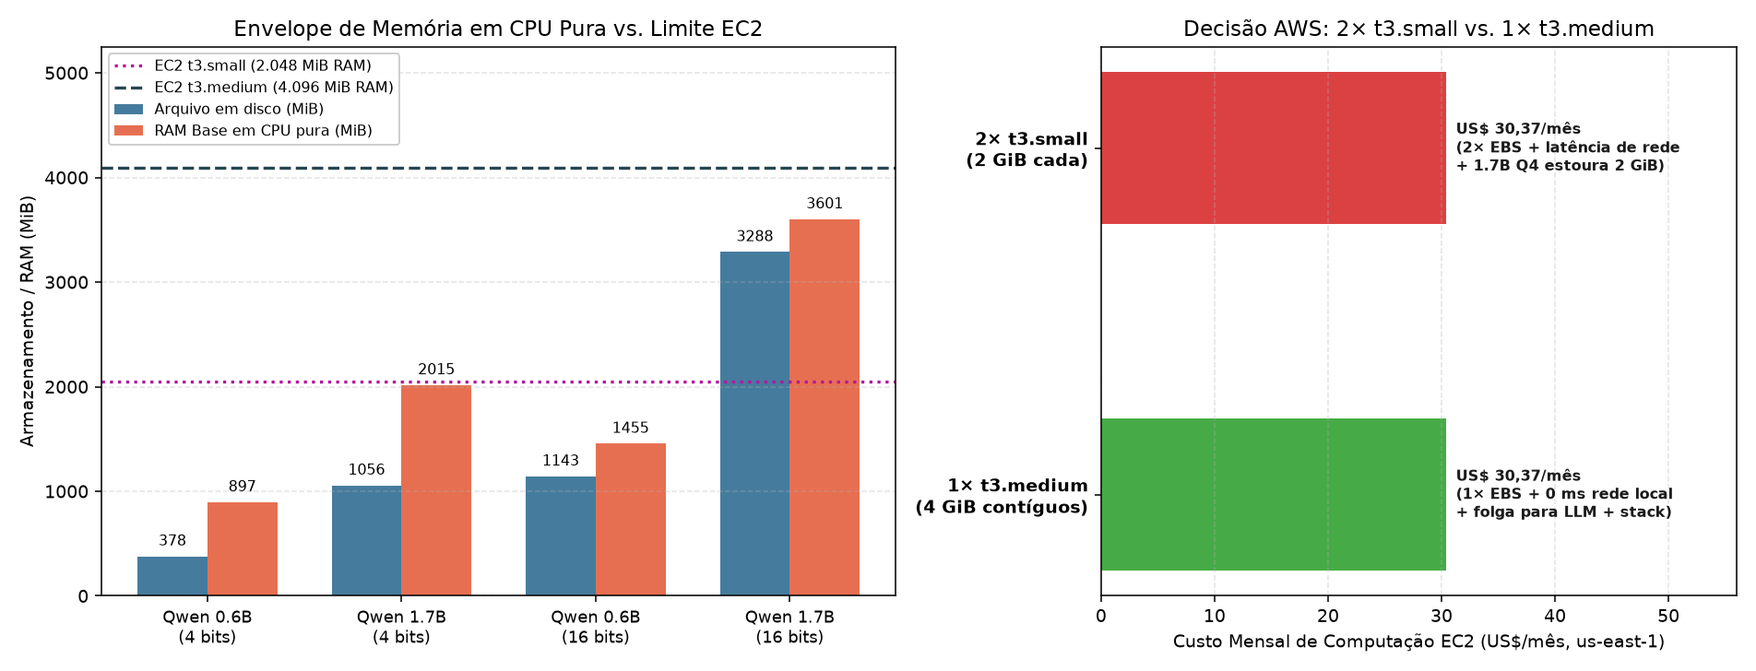
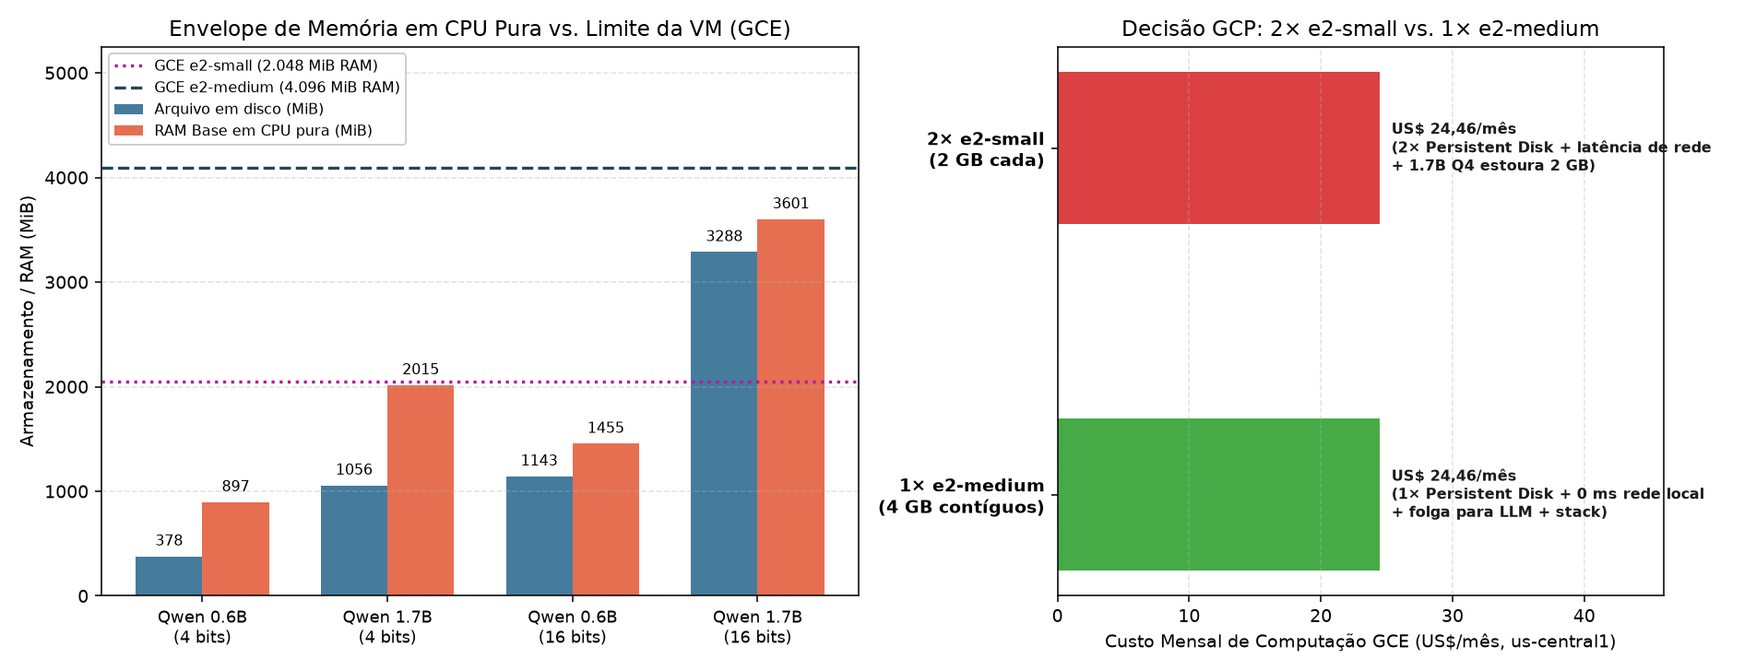
Atualiza README, ODS e métricas auditadas de GenAI, Visão e Cloud

diff --git a/llm-assistant/scripts/build_size_quant_comparison.py b/llm-assistant/scripts/build_size_quant_comparison.py
@@ -98,8 +98,8 @@ def _row_from_gguf_json(
     }
 
 
-def _plot_ec2_sizing_and_cost(mem_matrix: dict[str, Any], out_path: Path) -> None:
-    """Compara consumo de disco/RAM em CPU contra tetos EC2 e topologia 2x small vs 1x medium."""
+def _plot_vm_sizing_and_cost(mem_matrix: dict[str, Any], out_path: Path) -> None:
+    """Compara consumo de disco/RAM em CPU contra tetos GCE e topologia 2x e2-small vs 1x e2-medium."""
     plt.rcParams.update({"figure.dpi": 140})
     fig, (ax1, ax2) = plt.subplots(1, 2, figsize=(13.6, 5.2), gridspec_kw={"width_ratios": [1.25, 1.0]})
 
@@ -117,13 +117,13 @@ def _plot_ec2_sizing_and_cost(mem_matrix: dict[str, Any], out_path: Path) -> Non
     w = 0.36
     bd = ax1.bar(xm - w / 2, disk_vals, w, label="Arquivo em disco (MiB)", color="#457b9d")
     br = ax1.bar(xm + w / 2, rss_vals, w, label="RAM Base em CPU pura (MiB)", color="#e76f51")
-    ax1.axhline(2048, color="#b5179e", linestyle=":", linewidth=1.7, label="EC2 t3.small (2.048 MiB RAM)")
-    ax1.axhline(4096, color="#264653", linestyle="--", linewidth=1.7, label="EC2 t3.medium (4.096 MiB RAM)")
+    ax1.axhline(2048, color="#b5179e", linestyle=":", linewidth=1.7, label="GCE e2-small (2.048 MiB RAM)")
+    ax1.axhline(4096, color="#264653", linestyle="--", linewidth=1.7, label="GCE e2-medium (4.096 MiB RAM)")
     ax1.set_xticks(xm)
     ax1.set_xticklabels(labels, fontsize=9.2)
     ax1.set_ylim(0, 5250)
     ax1.set_ylabel("Armazenamento / RAM (MiB)")
-    ax1.set_title("Envelope de Memória em CPU Pura vs. Limite EC2")
+    ax1.set_title("Envelope de Memória em CPU Pura vs. Limite da VM (GCE)")
     ax1.grid(axis="y", linestyle="--", alpha=0.35)
     ax1.legend(loc="upper left", fontsize=8.0, framealpha=0.95)
 
@@ -132,23 +132,23 @@ def _plot_ec2_sizing_and_cost(mem_matrix: dict[str, Any], out_path: Path) -> Non
             h = bar.get_height()
             ax1.text(bar.get_x() + bar.get_width() / 2, h + 70, f"{h:.0f}", ha="center", va="bottom", fontsize=8.2)
 
-    topos = ["2× t3.small\n(2 GiB cada)", "1× t3.medium\n(4 GiB contíguos)"]
+    topos = ["2× e2-small\n(2 GB cada)", "1× e2-medium\n(4 GB contíguos)"]
     yt = np.arange(len(topos))
-    # Tarifa us-east-1 Linux On-Demand: 0.0208/h * 730 = 15.18/mês por small -> 30.37/mês; medium = 0.0416/h = 30.37/mês
-    compute_usd = [30.37, 30.37]
+    # Tarifa us-central1 on-demand: e2-small 0,016751 US$/h × 730 = 12,23/mês -> 2× = 24,46; e2-medium 0,033503 US$/h × 730 = 24,46/mês
+    compute_usd = [24.46, 24.46]
     colors_topo = ["#d62728", "#2ca02c"]
     ax2.barh(yt, compute_usd, height=0.44, color=colors_topo, alpha=0.88)
     ax2.set_yticks(yt)
     ax2.set_yticklabels(topos, fontsize=9.8, fontweight="bold")
     ax2.invert_yaxis()
-    ax2.set_xlim(0, 56)
-    ax2.set_xlabel("Custo Mensal de Computação EC2 (US$/mês, us-east-1)")
-    ax2.set_title("Decisão AWS: 2× t3.small vs. 1× t3.medium")
+    ax2.set_xlim(0, 46)
+    ax2.set_xlabel("Custo Mensal de Computação GCE (US$/mês, us-central1)")
+    ax2.set_title("Decisão GCP: 2× e2-small vs. 1× e2-medium")
     ax2.grid(axis="x", linestyle="--", alpha=0.35)
 
     notes = [
-        "US$ 30,37/mês\n(2× EBS + latência de rede\n+ 1.7B Q4 estoura 2 GiB)",
-        "US$ 30,37/mês\n(1× EBS + 0 ms rede local\n+ folga para LLM + stack)",
+        "US$ 24,46/mês\n(2× Persistent Disk + latência de rede\n+ 1.7B Q4 estoura 2 GB)",
+        "US$ 24,46/mês\n(1× Persistent Disk + 0 ms rede local\n+ folga para LLM + stack)",
     ]
     for idx, (cost, note) in enumerate(zip(compute_usd, notes)):
         ax2.text(cost + 0.9, idx, note, va="center", ha="left", fontsize=8.4, fontweight="bold", color="#1b1b1b")
@@ -331,7 +331,7 @@ def main() -> None:
     df.to_csv(out_csv, index=False, encoding="utf-8")
 
     out_png = DIR_ASSETS / "comparativo_17b_vs_06b_gguf.png"
-    _plot_ec2_sizing_and_cost(mem_matrix, out_png)
+    _plot_vm_sizing_and_cost(mem_matrix, out_png)
 
     out_mat = DIR_ASSETS / "matriz_2x2_memoria_acuracia.png"
     _plot_matrices(df, out_mat)

diff --git a/llm-assistant/scripts/build_notebooks.py b/llm-assistant/scripts/build_notebooks.py
@@ -83,7 +83,7 @@ def _nb_lora() -> nbf.NotebookNode:
             "display(pd.Series([r['familia'] for r in train_rows]).value_counts().rename('qtd_treino'))"
         ),
         nbf.v4.new_code_cell(
-            "REEXECUTAR_TREINO = False  # True para retreinar o adaptador LoRA r=16 na GPU (~2 min)\n\n"
+            "REEXECUTAR_TREINO = False  # True para retreinar o adaptador LoRA r=16 na GPU (~46 min na RTX 3060 Ti)\n\n"
             "if REEXECUTAR_TREINO or not (DIR_ADAPTERS / 'lora_arborgrid_r16' / 'adapter_config.json').exists():\n"
             "    from scripts.train_lora import main as run_train\n"
             "    run_train()\n\n"
@@ -177,7 +177,7 @@ def _nb_quantizacao() -> nbf.NotebookNode:
             "# 04 — Exploração de Modelos (`SmolLM2-360M` vs. `Qwen 0.6B` vs. `1.7B`) e Quantização `Q4_K_M`\n\n"
             "Documenta a seleção de família/porte de modelo e o estudo de quantização `F16` → `Q4_K_M` via `llama.cpp` "
             "em **GPU** (`-ngl 99`) e **CPU pura limitada a 2 threads** (`-dev none -ngl 0 -t 2`) "
-            "para fundamentar o deploy econômico na AWS (`t3.medium`, 4 GiB RAM)."
+            "para fundamentar o deploy econômico no Google Cloud Compute Engine (`e2-medium`, 4 GB RAM)."
         ),
         nbf.v4.new_code_cell(
             "import sys\n"
@@ -207,10 +207,10 @@ def _nb_quantizacao() -> nbf.NotebookNode:
             "display(Image(filename=str(DIR_ASSETS / 'matriz_2x2_latencia_gpu_cpu.png')))"
         ),
         nbf.v4.new_markdown_cell(
-            "### Decisão Final para Produção na Nuvem (`AWS EC2 t3.medium`)\n"
+            "### Decisão Final para Produção na Nuvem (`Google Cloud Compute Engine e2-medium`)\n"
             "- **`SmolLM2-360M` descartado:** `20,0%` em 16 bits (`10,0%` em Q4 CPU) e latência pior ou equivalente ao `Qwen 0.6B`.\n"
-            "- **`Qwen 1.7B Q4_K_M` aprovado para produção:** mantém **`93,3%` (`28/30`)** sem perda frente ao `F16` (`2.015,0 MiB` RAM base, `1.056,1 MiB` em disco, `9,30 s` em 2 threads CPU local / `~18,6 s` estimados em vCPU).\n"
-            "- Como o modelo de Visão Computacional (`segformer_v3_int8_dyn_matmul.onnx`) roda no navegador via `onnxruntime-web`, o **`Qwen 1.7B Q4_K_M`** cabe com folga na **`t3.medium` (4 GiB RAM)**."
+            "- **`Qwen 1.7B Q4_K_M` aprovado para produção:** mantém **`93,3%` (`28/30`)** sem diferença mensurável em `n = 30` frente ao `F16` (`2.015,0 MiB` RAM base, `1.056,1 MiB` em disco, `9,30 s` em 2 threads CPU local / `~18,6 s` estimados em vCPU).\n"
+            "- Como o modelo de Visão Computacional (`segformer_v3_int8_dyn_matmul.onnx`) roda no navegador via `onnxruntime-web`, o **`Qwen 1.7B Q4_K_M`** cabe com folga na **`e2-medium` (4 GB RAM)**."
         ),
     ]
     nb = nbf.v4.new_notebook()

diff --git a/infra/ARQUITETURA_CLOUD_DEVSECOPS.md b/infra/ARQUITETURA_CLOUD_DEVSECOPS.md
@@ -8,22 +8,28 @@ Documento de referência para a disciplina **Secure DevOps Tools & Cloud Computi
 
 ```mermaid
 flowchart LR
-    User[Cidadão / Avaliador] -->|HTTP 80| FW[GCP VPC Firewall Rules]
-    Airflow[Airflow 3 / Big Data] -->|Bearer Token HTTPS/HTTP| FW
-    Admin[Engenheiro DevOps] -->|SSH 22 CIDR Restrito /32| FW
+    GH["GitHub push"] --> GHA["GitHub Actions (Gitleaks, pytest, Semgrep)"]
+    GHA --> TRV["Docker build + Trivy (imagem e IaC)"]
+    TRV --> WIF["Workload Identity Federation (OIDC, sem chave JSON)"]
+    WIF --> IAP["Túnel IAP (35.235.240.0/20 → SSH 22)"]
+    IAP -->|"rsync + docker compose + health check"| GCE
 
-    subgraph GCE[Google Cloud Compute Engine e2-medium — Ubuntu 24.04 — Terraform IaC]
-        FW --> Nginx[Nginx Reverse Proxy :80]
-        Nginx --> App[FastAPI WebApp non-root :8000]
-        App -->|Chat RAG :8080| Llama[llama.cpp Qwen3-1.7B Q4_K_M]
-        Media[(Volume RO /opt/arborgrid/media)] --> App
-        LLMModel[(Volume RO /opt/arborgrid/llm_models)] --> Llama
-        State[(Volume RW /app/state Gold JSON)] <--> App
-        Prom[Prometheus 127.0.0.1:9090] -->|Scrape /metrics| App
-        Graf[Grafana 127.0.0.1:3000] -->|Query PromQL| Prom
+    User["Cidadão / Avaliador"] -->|"HTTP 80"| FW["GCP VPC Firewall Rules"]
+    Airflow["Airflow 3 / Big Data"] -->|"Bearer Token (HTTP)"| FW
+    Admin["Engenheiro DevOps"] -->|"SSH 22 CIDR Restrito /32"| FW
+
+    subgraph GCE["Google Cloud Compute Engine e2-medium — Ubuntu 24.04 — Terraform IaC"]
+        FW --> Nginx["Nginx Reverse Proxy :80"]
+        Nginx --> App["FastAPI WebApp non-root :8000"]
+        App -->|"Chat RAG :8080"| Llama["llama.cpp Qwen3-1.7B Q4_K_M"]
+        Media[("Volume RO /opt/arborgrid/media")] --> App
+        LLMModel[("Volume RO /opt/arborgrid/llm_models")] --> Llama
+        State[("Volume RW /app/state Gold JSON")] <--> App
+        Prom["Prometheus 127.0.0.1:9090"] -->|"Scrape /metrics"| App
+        Graf["Grafana 127.0.0.1:3000"] -->|"Query PromQL"| Prom
     end
 
-    Admin -.->|SSH Tunnel -L 3000/9090| Graf
+    Admin -.->|"SSH Tunnel -L 3000/9090"| Graf
 ```
 
 ---
@@ -36,7 +42,8 @@ flowchart LR
 | Provisionamento declarativo (`Terraform`), regras de Firewall VPC e bloqueio estrito de `0.0.0.0/0` na porta 22 | | X |
 | Hardening da VM (*Shielded VM*: Secure Boot, vTPM, Integrity Monitoring e `block-project-ssh-keys = true`) | | X |
 | Container slim, usuário não-root (`UID 10001`), filesystem `read_only`, drop de capabilities | | X |
-| Gestão de tokens (`ARBORGRID_API_TOKEN`) via GitHub Secrets / `.env` fora do Git | | X |
+| Credenciais de deploy: Workload Identity Federation (sem chave de Service Account), chave SSH dedicada do CI e *host key* fixada em GitHub Secrets; `ARBORGRID_API_TOKEN` só no `.env` da VM (fora do Git) | | X |
+| Disponibilidade do Identity-Aware Proxy, do STS/IAM Credentials e rotação das chaves de assinatura OIDC↔GCP | X | |
 | Varredura contínua Gitleaks, Semgrep e Trivy antes do deploy automático | | X |
 | Conformidade LGPD, anonimização e restrição de mídias Street View fora do repositório | | X |
 
@@ -44,10 +51,15 @@ flowchart LR
 
 ## 3. Localização dos Dados e Conformidade LGPD
 
-- **Dados públicos em código/container (`manifest.json`):** coordenadas geográficas oficiais de árvores viárias públicas provenientes do portal GeoSampa (Decreto Municipal SP nº 57.576/2017), datas históricas de vistoria municipal SISGAU e contagens agregadas de pixels (`copa_px`, `wire_px`, `pole_px`). Não contém nome, CPF, telefone, e-mail ou qualquer dado pessoal identificável (PII).
+O conjunto de dados hospedado (`manifest.json`) não contém dados pessoais; contudo, entradas digitadas pelo usuário no assistente e logs de acesso HTTP podem conter dados pessoais, tratados pelos controles abaixo:
+
+- **Dados públicos em código/container (`manifest.json`):** coordenadas geográficas oficiais de árvores viárias públicas provenientes do portal GeoSampa (Decreto Municipal SP nº 57.576/2017), datas históricas de vistoria municipal SISGAU e contagens agregadas não identificáveis de pixels (`copa_px`, `wire_px`, `pole_px`).
 - **Mídias visuais (`images/` e `v3_overlays/`):** armazenadas fora do histórico Git (protegidas pelo `.gitignore` e `.dockerignore`), montadas como volume somente leitura (`/app/media:ro`) na VM apenas quando necessário, preservando o borramento nativo de rostos/placas e respeitando os Termos de Uso do Google Street View.
 - **Identificadores anonimizados:** `pano_id` e eventuais atores operacionais enviados pela camada Gold recebem hash SHA-256 truncado (`pano_id_hash`, `audit_actor_hash`).
-- **Região de hospedagem:** Google Cloud `us-central1` (Iowa), com discos persistentes `pd-balanced` criptografados automaticamente em repouso por padrão no GCP (`Google-managed encryption keys`).
+- **Perguntas enviadas ao assistente (`POST /api/v1/assistant/ask`):** perguntas digitadas podem conter dados pessoais; a API mascara CPF, CNPJ, placa, telefone e e-mail antes de enviar o texto ao LLM e antes de devolvê-lo na resposta (`webapp/app/privacy.py`). As perguntas não são persistidas em banco ou disco e o Uvicorn não registra corpos de requisição nos logs.
+- **Upload de fotos na aba "Análise de Imagem":** as imagens enviadas pelo usuário são processadas exclusivamente no navegador (`ONNX Runtime Web`) e nunca saem do dispositivo.
+- **Logs de acesso do Nginx:** registram endereços IP dos clientes (dados pessoais sob a LGPD). O driver de log padrão do Docker mantém os registros até a recriação do container; recomenda-se configurar rotação e retenção limitada (`max-size` / `max-file`) em produção.
+- **Região de hospedagem e transferência internacional:** Google Cloud `us-central1` (Iowa), com discos persistentes `pd-balanced` criptografados automaticamente em repouso por padrão no GCP (`Google-managed encryption keys`). A hospedagem fora do Brasil configura transferência internacional de dados (LGPD, art. 33); a alternativa nacional é `southamerica-east1` (São Paulo), com custo superior. Como os dados persistidos na VM se restringem a dados públicos abertos e contagens não identificáveis de pixels, a escolha de `us-central1` justifica-se para o MVP.
 
 ---
 
@@ -59,17 +71,60 @@ Valores referenciais *on-demand* em USD (abatidos diretamente do saldo/créditos
 | :--- | :--- | ---: | ---: |
 | Computação GCE | `1x e2-medium` (2 vCPU compartilhadas, 4 GB RAM para `Qwen3-1.7B Q4_K_M`) | ~\$24,27 | \$0,0332/h |
 | Armazenamento | `30 GB pd-balanced` (SSD balanceado criptografado) | ~\$3,00 | \$0,0041/h |
-| IPv4 Público & Tráfego | `1x IPv4` efêmero em uso (`$0,005/h`) + tráfego de saída moderado | ~\$3,65 | \$0,0050/h |
-| **Total Estimado** | | **~\$30,92 / mês (730 h)** | **~\$0,042 / hora (~R\$ 0,24/h)** |
+| IPv4 Público & Tráfego | `1x IPv4` efêmero em uso (`$0,005/h`) | ~\$3,65 | \$0,0050/h |
+| Tráfego de saída (egress) | Cada primeira visita à aba de análise visual baixa ~`67 MB` (modelo ONNX `51,8 MiB` + WASM `14,8 MB`); `100` visitantes ≈ `6,7 GB` (egress ~`US$ 0,12/GB`) | ~\$0,80 *(100 visitantes)* | sob demanda |
+| **Total Estimado** | | **~\$30,92 / mês (730 h)** + egress | **~\$0,042 / hora (~R\$ 0,24/h)** |
 
 *Observação:* manter a stack ativa durante 10 dias corridos para apresentação e correção da banca consome apenas **~\$10,15 USD (~R\$ 58)** do saldo pré-pago, e desligar (`Stop`) a VM fora do horário de avaliação reduz o custo para apenas os `30 GB` de disco (**~\$0,10/dia**).
 
+**Cenário de escala:** projeta-se uma instância `e2-medium` por subprefeitura piloto (~`US$ 31/mês`), sendo o servidor LLM o primeiro componente a ser desacoplado (instância dedicada ou Cloud Run) quando o tráfego crescer.
+
 ---
 
-## 5. Observabilidade: 4 Golden Signals + Alerta
+## 5. Observabilidade: 4 Golden Signals + Alertas
 
 - **Latência:** `arborgrid_http_request_duration_seconds_bucket` (P50 / P95 por rota).
 - **Tráfego:** `arborgrid_http_requests_total` (RPS por rota e código HTTP).
 - **Erros:** `arborgrid_http_errors_total` (taxa de `4xx` e `5xx`).
 - **Saturação:** `arborgrid_inprogress_requests` e `process_resident_memory_bytes`.
-- **Regras de Alerta ([`alerts.yml`](observability/prometheus/alerts.yml)):** `ArborGridHighClientErrorRate` dispara automaticamente quando erros `4xx/5xx` superam `0.2 req/s` por 15 segundos — facilmente demonstrável enviando requisições sem Bearer token para `/api/v1/inspections`.
+- **Assistente IA (painéis Grafana):** acompanhamento do volume de respostas por modo (LLM × fallback determinístico) via `arborgrid_assistant_responses_total` e dos motivos de acionamento do fallback via `arborgrid_llm_fallback_total`.
+- **Exposição e proteção no Nginx:** o endpoint `/metrics` não é exposto publicamente (o Nginx retorna `404` para requisições externas; o Prometheus coleta `webapp:8000` pela rede interna). O Nginx também aplica compressão `gzip` e *rate limiting* em `/api/v1/assistant/ask` (`10 req/min` por IP, `burst 5`).
+- **Regras de Alerta ([`alerts.yml`](observability/prometheus/alerts.yml)):**
+  - `ArborGridHigh5xxRatio`: dispara quando respostas `5xx` ultrapassam `5%` do total nos últimos `5 min`.
+  - `ArborGridAuthFailuresSpike`: sinal de segurança quando respostas HTTP `401` superam `0,2 req/s` (`for: 15s`) — demonstrável chamando `/api/v1/inspections` sem Bearer token em loop.
+  - `ArborGridHighLatencyP95`: dispara quando a latência `P95` supera `0,5 s` nas rotas interativas (excluindo `/api/v1/assistant/ask` e o download do modelo ONNX).
+  - `ArborGridAssistantLatencyP95`: dispara quando o `P95` de `/api/v1/assistant/ask` ultrapassa `25 s`.
+  - `ArborGridServiceDown`: dispara quando `up{job="arborgrid-webapp"} == 0` por `30 s` — demonstrável executando `docker stop arborgrid-webapp` por `30 s`.
+
+---
+
+## 6. Deploy Automático (GitHub Actions → IAP → VM)
+
+O job `deploy-to-vm` de [`.github/workflows/devsecops.yml`](../.github/workflows/devsecops.yml) roda a cada push em `main`, depois dos gates de segurança (Gitleaks, pytest, Semgrep, Trivy):
+
+1. **Autenticação sem segredo de longa duração:** o runner troca seu token OIDC do GitHub por credenciais temporárias via **Workload Identity Federation** ([`terraform/cicd.tf`](terraform/cicd.tf)). O provedor só aceita tokens deste repositório na branch `main`.
+2. **Menor privilégio:** a Service Account `*-cicd` só tem `roles/compute.viewer` no projeto e `roles/iap.tunnelResourceAccessor` **nesta VM**.
+3. **Porta 22 fechada para a internet:** o SSH chega pelo túnel TCP do **Identity-Aware Proxy**. O firewall aceita a porta 22 apenas da faixa do IAP (`35.235.240.0/20`) e do CIDR administrativo `/32`. Nunca de `0.0.0.0/0`.
+4. **Sem TOFU:** a *host key* da VM é fixada no secret `VM_KNOWN_HOSTS` (`StrictHostKeyChecking yes`); o CI usa um par de chaves SSH dedicado, revogável sem afetar o acesso humano.
+5. **Entrega:** `rsync --delete` do código (preservando `infra/.env` da VM), `docker compose up -d --build --remove-orphans` e um **health check** em `/api/v1/health`. Se o health check falhar, o job falha.
+6. **Configuração ausente falha alto:** se faltar algum secret, o job termina com erro em vez de "passar pulando" o deploy.
+
+**Configuração (uma vez):**
+
+```bash
+# 1. Par de chaves dedicado ao CI
+ssh-keygen -t ed25519 -f ~/.ssh/arborgrid_ci -N "" -C arborgrid-ci
+
+# 2. terraform.tfvars: static_ip_address = "<IP atual da VM>" e ci_ssh_public_key = "<conteúdo de ~/.ssh/arborgrid_ci.pub>"
+cd infra/terraform && terraform plan   # conferir: a VM deve ser "updated in-place", nunca "must be replaced"
+terraform apply
+
+# 3. Secrets e variáveis do repositório
+gh secret set GCP_WIF_PROVIDER --body "$(terraform output -raw workload_identity_provider)"
+gh secret set GCP_DEPLOY_SA    --body "$(terraform output -raw deploy_service_account)"
+gh secret set VM_SSH_KEY       < ~/.ssh/arborgrid_ci
+ssh-keyscan -t ed25519 "$(terraform output -raw public_ip)" 2>/dev/null | sed 's/^[^ ]*/arborgrid-vm/' | gh secret set VM_KNOWN_HOSTS
+gh variable set GCP_VM_NAME --body "$(terraform output -raw instance_name)"
+```
+
+Para conferir a *host key* sem confiar na rede, compare com `gcloud compute instances get-guest-attributes <vm> --query-path=hostkeys/ --zone <zona>`.

diff --git a/arborgrid-vision/EXPLORACAO_MODELOS_E_QUANTIZACAO.md b/arborgrid-vision/EXPLORACAO_MODELOS_E_QUANTIZACAO.md
@@ -92,9 +92,20 @@ No notebook autônomo [`colab/Colab_02_Treino_Final_V3_ABC_1024px.ipynb`](colab/
 | **`Modelo B` (+Aug Calibrada)** | `117` imgs · `+HSV ±5%`, `+Rot ±3°` (sem blur) | **`45,13%`** | `92,86%` | `32,46%` (**`96,90%`**) | **`56,82%`** | `8.157,0 px` | `70,0%` (`14/20`) |
 | **`Modelo C (Ouro V3 Final)`** | **`135` imgs** (`+Pacote 3 Hard Negs`) · `+Aug` | **`42,44%`** | **`92,86%`** | `30,95%` (**`96,64%`**) | **`55,42%`** | **`6.495,2 px`** | **`75,0%` (`15/20`)** |
 
+**Detalhamento completo por classe na validação (`8` imagens / `4` árvores):**
+
+| Modelo | Copa IoU / Prec. / Recall | Fiação IoU / Prec. / Recall | Poste IoU / Prec. / Recall | mIoU |
+| :--- | :---: | :---: | :---: | :---: |
+| `V3 A` | `92,84% / 96,04% / 96,53%` | `43,11% / 79,33% / 48,57%` | `33,00% / 82,75% / 35,43%` | `56,32%` |
+| `V3 B` | `92,86% / 95,99% / 96,61%` | `45,13% / 75,33% / 52,96%` | `32,46% / 96,90% / 32,80%` | `56,82%` |
+| **`V3 C (adotado)`** | **`92,86% / 95,80% / 96,80%`** | **`42,44% / 76,58% / 48,77%`** | **`30,95% / 96,64% / 31,29%`** | **`55,42%`** |
+
+> Embora a precisão de postes no `V3 C` seja de `96,64%`, seu IoU é `30,95%` e seu recall é `31,29%`; na fiação, o recall é `48,77%`. Fios e postes são estruturas finas sensíveis a deslocamentos de `1`–`3 px`, com perdas em nível de pixel mitigadas no nível da árvore pelo consenso multi-ângulo e pela margem de vento OpenCV.
+
 ### Decisão Arquitetural: Por que adotar o `Modelo C Ouro V3` em vez do `Modelo B`?
 - Embora as novas augmentations do `Modelo B` tenham alcançado o pico de `IoU Fiação` na validação (`45,13%`), elas elevaram os falsos alarmes no Teste Cego da Paulista para `8.157 px` médios e baixaram o `Zero-FP` para `70,0%`.
-- Ao incluir os `18` *hard negatives* da Paulista (`Modelo C Ouro V3`), aceitamos um recuo controlado de `-2,69 p.p.` no `IoU Fiação` da validação (`42,44%`) para derrubar em **`-20,4%` os pixels falsos médios no teste cego (`8.157 → 6.495 px`)**, preservando `96,64%` de precisão em postes e `92,86%` de IoU em copas.
+- Ao incluir os `18` *hard negatives* da Paulista (`Modelo C Ouro V3`), aceitamos um recuo controlado de `-2,69 p.p.` no `IoU Fiação` da validação (`42,44%`) para derrubar em **`-20,4%` os pixels falsos médios no teste cego (`8.157 → 6.495 px`)**, mantendo `92,86%` de IoU em copas e `96,64%` de precisão em postes (`30,95%` IoU / `31,29%` recall em postes e `48,77%` recall em fiação no nível de pixel).
+- *Nota amostral:* com validação de `8` imagens (`4` árvores) e teste cego de `20` imagens, o `Zero-FP` de `75%` (`15/20`) tem intervalo de Wilson (95%) de `[53%; 89%]`, e a diferença entre `B` (`70%`) e `C` (`75%`) representa apenas `1` imagem.
 - Além disso, na auditoria completa sobre todas as `143` imagens curadas (reproduzível via [`03_avaliacao_v3_auditoria_e_inferencia_campo.ipynb`](03_avaliacao_v3_auditoria_e_inferencia_campo.ipynb)), o `Modelo C V3` obteve `100,00%` de concordância (`iou_wire`) nas `18` imagens de `pacote_3_hard_negatives`, `82,78%` no treino do `pacote_1` e `80,09%` no `pacote_2`. Mesmo quando isolamos os exemplos com maior discrepância absoluta de pixels do dataset, as predições permanecem geometricamente alinhadas aos feixes reais e ao gabarito humano:
 
 ![Maiores Anomalias do Dataset V3 — Alinhamento entre Gabarito Humano e Modelo C V3](assets/exemplo_etapa3_maiores_anomalias_v3.jpg)
@@ -110,7 +121,9 @@ Comparando a inferência completa do `V2 Full` vs. `V3 Ouro` no [`manifest.json`
 | **Pinheiros** *(Aérea)* | `89` | `-5,45%` | `23` (`25,8%`) | `22` (`24,7%`) | `11` (`12,4%`) | `33` (`37,1%`) |
 | **Alto da Mooca** *(Aérea)* | `54` | `-15,75%` | `11` (`20,4%`) | `11` (`20,4%`) | `17` (`31,5%`) | `15` (`27,8%`) |
 | **Vila Mariana / Klabin** *(Aérea)* | `54` | `-13,82%` | `22` (`40,7%`) | `6` (`11,1%`) | `9` (`16,7%`) | `17` (`31,5%`) |
-| **Av. Paulista** *(100% Subterrânea)* | `74` | **`-56,11%`** | `3` (`4,1%`) *(cruzamentos)* | `6` (`8,1%`) | `5` (`6,8%`) | **`60` (`81,1%`)** |
+| **Av. Paulista** *(100% Subterrânea)* | `74` (`65` inéditas) | **`-41,82%`** *(65 inéditas)* / `-56,11%` *(74 total)* | `3` (`4,1%`) *(cruzamentos)* | `6` (`8,1%`) | `5` (`6,8%`) | **`51/65` (`78,5%`)** inéditas / `60/74` (`81,1%`) total |
+
+> **Sobreposição treino × campo:** na Av. Paulista, `9` das `74` árvores integram o `pacote_3_hard_negatives` de treino (IDs `36, 39, 43, 4565, 4728, 5692, 5695, 651875, 7204`), onde o `V3` zerou `144.149 → 0 px` (memorização); nas `65` árvores inéditas (`129` vistas), a queda foi de `442.616 → 257.508 px` (`-41,82%`) e `78,5%` (`51/65`) como `SEGURO` (vs. `46/65 = 70,8%` no `V2`). Em Pinheiros, `71` das `89` árvores têm `dataset_role = train_curated` (taxas refletem triagem sobre árvores vistas no treino); Alto da Mooca e Vila Mariana (`54` árvores cada) são `inference_only` sem gabarito humano.
 
 ---
 
@@ -118,11 +131,11 @@ Comparando a inferência completa do `V2 Full` vs. `V3 Ouro` no [`manifest.json`
 
 Como o servidor de nuvem do ecossistema precisa rodar `webapp/`, `nginx`, `prometheus`/`grafana` e o copiloto `llm-assistant/` (`Qwen 1.7B Q4_K_M`, `2.015 MiB` base) sem GPU dedicada, avaliamos se seria possível compactar o `SegFormer-B2 V3 (1024×1024)` para CPU ou se o melhor caminho seria executá-lo **no navegador via Web**.
 
-Implementamos [`04_quantizacao_onnx_e_benchmark_cpu.ipynb`](04_quantizacao_onnx_e_benchmark_cpu.ipynb) executando cada variante em subprocesso isolado limitado a `2 threads` de CPU, medindo tamanho bruto e Gzip (custo de download Web), pico de RAM RSS (`psutil`), latência (`28` imagens = `8` validação + `20` teste cego Paulista), IoU, `Zero-FP` e concordância do veredito final do motor morfológico V3:
+Implementamos [`04_quantizacao_onnx_e_benchmark_cpu.ipynb`](04_quantizacao_onnx_e_benchmark_cpu.ipynb) executando cada variante em subprocesso isolado limitado a `2 threads` de CPU, medindo tamanho bruto e Gzip (custo de download Web), pico de RAM RSS (`psutil`), latência (`28` imagens = `8` validação + `20` teste cego Paulista), IoU, `Zero-FP` e concordância da triagem final do motor morfológico V3 **em relação ao modelo `FP32` original** (não acurácia contra gabarito humano):
 
 ![Etapa 4 — Quantização e Exportação SegFormer-B2 V3 (CPU 2 Threads)](assets/etapa4_quantizacao_segformer_v3.png)
 
-| Variante (`SegFormer-B2 V3 1024×1024`) | Escopo de Quantização | Disco | Gzip Web | Pico RAM RSS | Latência Média (P95) | mIoU Val | IoU Fiação | Zero-FP Paulista | Concordância Triagem |
+| Variante (`SegFormer-B2 V3 1024×1024`) | Escopo de Quantização | Disco | Gzip Web | Pico RAM RSS | Latência Média (P95) | mIoU Val | IoU Fiação | Zero-FP Paulista | Concordância vs. FP32 |
 | :--- | :--- | ---: | ---: | ---: | ---: | ---: | ---: | ---: | ---: |
 | `pytorch_fp32` | Pesos `FP32` originais | `104,5 MiB` | `96,9 MiB` | `3.310 MiB` | `4,40s` (`4,47s`) | `55,41%` | `42,44%` | `75,0%` (`15/20`) | `100,0%` (`28/28`) |
 | `onnx_fp32` | Grafo ONNX opset 17 `FP32` | `104,6 MiB` | `96,9 MiB` | `5.235 MiB` | `2,73s` (`2,77s`) | `55,41%` | `42,44%` | `75,0%` (`15/20`) | `100,0%` (`28/28`) |
@@ -136,7 +149,7 @@ Implementamos [`04_quantizacao_onnx_e_benchmark_cpu.ipynb`](04_quantizacao_onnx_
 1. **Por que `onnx_int8_dynamic` (completo) falhou em latência (`26,64s`):** ao quantizar também camadas convolucionais do `Mix-FFN` e `OverlapPatchEmbed`, o ONNX Runtime em CPU gera nós `ConvInteger` com perda severa de paralelismo/vetorização — ficando `9,8×` mais lento que `onnx_fp32` (`26,64s` vs. `2,73s`) e mudando `1` triagem (`PROXIMIDADE → CRITICO`).
 2. **Por que `onnx_int8_static_qdq` falhou em fiação e falsos alarmes:** o *clipping* estático `MinMax` em `QUInt8` achata gradientes sutis de cabos sub-pixel: `IoU Fiação` cai `42,44% → 40,41%`, o `Zero-FP` da Paulista despenca `75,0% → 55,0%` (`11/20`) e `2` triagens divergem (incluindo falso positivo `SEGURO → PROXIMIDADE` na Paulista). Além disso, seu pico de `2.654 MiB` RSS em CPU ainda inviabiliza rodar o modelo na mesma instância ao lado do `Qwen 1.7B Q4_K_M` (`2.015 MiB` base).
 3. **Por que vencemos com `onnx_int8_dyn_matmul` na Web:**
-   - Restringir a quantização dinâmica `QInt8` às camadas lineares e de atenção (`op_types_to_quantize=["MatMul", "Gemm"]`), mantendo as convoluções em `FP32`, reduz o arquivo pela metade (`51,8 MiB` em disco / `43,9 MiB` via Gzip), entrega a **menor latência em CPU `2t` (`2,48s`, `-43,6%` vs. PyTorch)**, registra `56,28%` mIoU, `42,55%` IoU Fiação, `75,0%` Zero-FP e **`100,0%` (`28/28`) de concordância de triagem**.
+   - Restringir a quantização dinâmica `QInt8` às camadas lineares e de atenção (`op_types_to_quantize=["MatMul", "Gemm"]`), mantendo as convoluções em `FP32`, reduz o arquivo pela metade (`51,8 MiB` em disco / `43,9 MiB` via Gzip), entrega a **menor latência em CPU `2t` (`2,48s`, `-43,6%` vs. PyTorch)**, registra `56,28%` mIoU, `42,55%` IoU Fiação, `75,0%` Zero-FP e **`100,0%` (`28/28`) de concordância de triagem com o modelo `FP32`**.
    - **Decisão fechada:** hospedar `segformer_v3_int8_dyn_matmul.onnx` (`43,9 MiB` comprimido) como ativo estático para execução cliente no navegador (`onnxruntime-web`), liberando `100%` da RAM da VM na nuvem para a API e o assistente `Qwen`. Como alternativa caso haja GPU/WebGPU no cliente, `onnx_fp16` (`48,3 MiB` Gzip, `100,0%` de concordância) preserva pesos em meia precisão nativa.
 
 ---
@@ -156,5 +169,5 @@ Implementamos [`04_quantizacao_onnx_e_benchmark_cpu.ipynb`](04_quantizacao_onnx_
 | **`PRB-009`** | Desalinhamento no polígono amostral da Av. Paulista. | Bbox ortogonal com buffer estreito omitia faces adjacentes. | Polígono orientado ao eixo viário (`420 m` totais cobrindo Rua São Carlos do Pinhal e Al. Santos). |
 | **`PRB-010`** | Sobreposição de *hover* dos polígonos nos cliques das árvores no mapa. | Eventos SVG capturados pela camada vetorial do setor. | Polígonos territoriais com `interactive: false` e `fill: false` + painel lateral retrátil. |
 | **`PRB-011`** | Panoramas internos do Metrô Paulista/Consolação (`#2139`, `#2135`) no dataset. | Coordenada da árvore coincidia com trajeto pedestre subterráneo (*Trekker*). | Quarentena e descarte dos espécimes internos do manifesto oficial. |
-| **`PRB-012`** | Falsos positivos em frisos metálicos e brises da Av. Paulista no `V2`. | Dataset `100%` composto por vias com rede aérea induzia viés positivo. | **Pacote 3 (`18` Hard Negatives)** zerando alucinações e reduzindo `wire_px` da Paulista em `-56,11%`. |
+| **`PRB-012`** | Falsos positivos em frisos metálicos e brises da Av. Paulista no `V2`. | Dataset `100%` composto por vias com rede aérea induzia viés positivo. | **Pacote 3 (`18` Hard Negatives)** reduzindo `wire_px` nas `65` árvores inéditas da Paulista em `-41,82%` (`-56,11%` incluindo as `9` árvores de treino). |
 | **`PRB-013`** | Quantização dinâmica INT8 completa em ONNX `9,8×` mais lenta (`26,64s` CPU `2t`). | Nós `ConvInteger` de convoluções têm baixo desempenho no `CPUExecutionProvider` ORT. | Quantização seletiva em **`MatMul`/`Gemm` (`onnx_int8_dyn_matmul`)**: **`2,48s` CPU** e `100%` triagem. |

diff --git a/README.md b/README.md
@@ -6,15 +6,22 @@
 | :--- | :--- |
 | **Nome do produto** | **ArborGrid SP** |
 | **Integrantes (RM)** | **Lorenzo Gomes Andreata** (`551117`) · **Lucas Moreno Matheus** (`97158`) · **Kayky Oliveira Schunck** (`99756`) |
+| **URL do MVP e repositório** | http://34.41.193.154 (Web App) · http://34.41.193.154/docs (API Swagger) · https://github.com/LM2124/Fiap-2026-GS2-CitizenTech-Projeto-Arborgrid |
 | **Cidadão e território** | Moradores, pedestres e equipes de zeladoria/energia em **São Paulo (SP)** — lotes auditados em Pinheiros, Alto da Mooca, Vila Mariana e corredor de controle Av. Paulista |
 | **Problema, em uma frase** | Conflitos não mapeados entre copas de árvores urbanas e fiação aérea de distribuição elétrica causam apagões, risco de choque elétrico e quedas de árvores sem vistoria preventiva |
 | **Proposta de valor** | Combinar dados geoespaciais abertos e visão computacional multi-perspectiva (`1024 px`) com risco climático para priorizar podas preventivas com transparência e controle de falsos positivos |
 | **Arquitetura: componentes** | `arborgrid-vision/` (SegFormer-B2 + OpenCV), `webapp/` (FastAPI + React/Leaflet + API REST), `data-processing/` (Airflow 3 + Databricks Medallion), `llm-assistant/` (RAG + Qwen3 LoRA), `infra/` (Terraform GCP + Docker Compose + Prometheus/Grafana) |
 | **Fontes de dados** | PMSP GeoSampa WFS (`geoportal:arvore` + SISGAU), Google Street View Static/Metadata API, Open-Meteo API |
 | **Modelos de IA utilizados** | **SegFormer-B2 (1024 px)** *fine-tuned* (V3 Gold + versão quantizada `onnx_int8_dyn_matmul` no navegador) e **Qwen3-1.7B + LoRA (`r=16`)** / base normativa (`llm-assistant/`) |
-| **Pipeline DevSecOps** | `.github/workflows/devsecops.yml` (`pytest`, Gitleaks, Semgrep SAST, Trivy IaC/Imagem e deploy automático em VM) |
-| **Indicadores de impacto** | Redução de `-56,1%` em pixels falsos de fiação na Av. Paulista (controle subterrâneo) no modelo V3; cobertura multi-ângulo em 271 árvores (`536` vistas) |
+| **Pipeline DevSecOps** | `.github/workflows/devsecops.yml` (`pytest`, Gitleaks, Semgrep SAST, Trivy IaC/Imagem e deploy automático na VM via túnel IAP + Workload Identity Federation, sem chave de nuvem e com a porta 22 fechada para a internet) |
+| **Indicadores de impacto** | **Linha de base:** `88,2%` das `271` árvores auditadas sem vistoria SISGAU recente · **Técnicos:** `-41,8%` de pixels falsos de fiação na Av. Paulista nas `65` árvores fora do treino; assistente com `93,3%` de acerto estrito (`90,9%` nos `22` casos sem sobreposição com o treino) · **Impacto a medir no piloto:** interrupções atribuídas à vegetação por `1.000` árvores auditadas; tempo entre triagem crítica e poda; `%` de árvores críticas sem vistoria que passam a ter vistoria |
 | **ODS conectados** | **ODS 11** (Cidades e comunidades sustentáveis), **ODS 9** (Indústria, inovação e infraestrutura), **ODS 13** (Ação contra a mudança global do clima) |
+
+### Contribuição para os ODS
+
+- **ODS 11 (Metas 11.5 e 11.7 — redução de pessoas afetadas e de perdas por desastres; preservação de áreas verdes urbanas):** o ArborGrid SP prioriza a poda preventiva direcionada antes da ocorrência de quedas ou choques, substituindo a supressão emergencial após acidentes pela conservação segura da arborização viária. A contribuição é medida pelo percentual de árvores críticas sem vistoria SISGAU prévia que passam a receber vistoria e pelo tempo entre a triagem crítica e a poda.
+- **ODS 9 (Meta 9.1 — infraestrutura confiável e resiliente):** ao cruzar proximidade copa–fiação por múltiplos ângulos e expor os alertas via API para as equipes de zeladoria e energia, o sistema apoia a manutenção programada da rede elétrica de distribuição para reduzir apagões. A contribuição é medida pela taxa de interrupções atribuídas à vegetação por `1.000` árvores auditadas no piloto.
+- **ODS 13 (Meta 13.1 — resiliência a riscos climáticos):** o módulo Big Data/Ouro integra previsões de rajadas de vento e chuva via Open-Meteo ao risco físico das copas, elevando a prioridade de árvores expostas a eventos extremos. A contribuição é medida pela antecipação do atendimento de árvores críticas em setores com maior severidade climática.
 
 ---
 
@@ -95,8 +102,26 @@ Respostas estruturadas reais registradas pelo pipeline **`Qwen3-1.7B + LoRA + RA
 
 ```bash
 cd webapp
-uv run pytest -v   # ou `.venv/Scripts/pytest -v` (Windows) / `.venv/bin/pytest -v` (Linux/macOS)
+
+# Windows:
+python -m venv .venv
+.venv\Scripts\activate
+pip install -r requirements-dev.txt
+pytest -v
+
+# Linux / macOS:
+python3 -m venv .venv
+source .venv/bin/activate
+pip install -r requirements-dev.txt
+pytest -v
 ```
+
+| Módulo | Como instalar | Como testar / rodar |
+| :--- | :--- | :--- |
+| `webapp/` | `pip install -r requirements-dev.txt` (em venv) | `pytest -v` |
+| `llm-assistant/` | `uv sync --group dev` | `uv run pytest -v` |
+| `arborgrid-vision/` | `uv sync` | Notebooks `01`–`05` / `scripts/run_operational_pipeline.py` |
+| `infra/` | `python scripts/start_stack.py` | Docker Compose |
 
 - [`webapp/`](webapp/) — Aplicação Web (FastAPI + frontend React/Vite/Tailwind/Leaflet + `onnxruntime-web` + API `/api/v1/*` + Prometheus `/metrics` + `tests/test_api.py`).
 - [`scripts/start_stack.py`](scripts/start_stack.py) — Script único para subir Docker (ou API local), configurar `infra/.env` e exibir credenciais locais.

diff --git a/llm-assistant/EXPLORACAO_MODELOS_E_QUANTIZACAO.md b/llm-assistant/EXPLORACAO_MODELOS_E_QUANTIZACAO.md
@@ -80,7 +80,7 @@ Convertemos os dois modelos Qwen fundidos (`LoRA + Base`) para **GGUF** em **`16
 
 ![Etapa 3.1 — Quantização em CPU (2 threads): Acurácia e Memória](assets/exp_3a_quantizacao_cpu_qualidade_memoria.png)
 
-- **`Qwen 1.7B` resiste intacto aos 4 bits:** preserva **`93,3%` (`28/30`)** tanto em `F16` quanto em **`Q4_K_M`**, reduzindo a RAM base alocada em **`44%`** (`3.600,9 → 2.015,0 MiB`; **`1.056,1 MiB`** em disco).
+- **`Qwen 1.7B` em 4 bits sem diferença mensurável em `n = 30`:** preserva **`93,3%` (`28/30`)** tanto em `F16` quanto em **`Q4_K_M`** (sem diferença mensurável em `n = 30`, `28/30` nas duas precisões), reduzindo a RAM base alocada em **`44%`** (`3.600,9 → 2.015,0 MiB`; **`1.056,1 MiB`** em disco).
 - **`Qwen 0.6B` degrada na quantização:** cai de **`83,3%` (`25/30`)** em `F16` CPU para **`66,7%` (`20/30`)** em `Q4_K_M` CPU (`896,8 MiB` RAM base; `378,3 MiB` em disco), evidenciando baixa tolerância sub-bilhão a 4 bits nesta tarefa.
 
 ### 3.2 Latência e Velocidade em CPU (`16 bits F16` vs. `4 bits Q4_K_M`, `2 threads`)
@@ -93,4 +93,4 @@ Convertemos os dois modelos Qwen fundidos (`LoRA + Base`) para **GGUF** em **`16
 - **Projeção realista em vCPU de nuvem:** como o `Ryzen 9 7900X` local possui maior desempenho *single-thread* que vCPUs compartilhadas típicas da nuvem (~2× mais lentas em estimativa conservadora), espera-se **`~10 s`** por resposta no `Qwen 0.6B Q4_K_M` e **`~18,6 s`** no `Qwen 1.7B Q4_K_M` — latência aceitável para triagem técnica assíncrona em troca de **`+26,6 p.p.`** de confiabilidade.
 
 ### Conclusão da Etapa 3: Adoção do `Qwen 1.7B Q4_K_M` na Instância `e2-medium` (Google Cloud)
-Como o modelo de Visão Computacional (`segformer_v3_int8_dyn_matmul.onnx`, `51,8 MiB`) foi descarregado para execução sob demanda no navegador via `onnxruntime-web`, a instância em nuvem (`Google Cloud Compute Engine e2-medium` com `4 GB` de RAM) fica dedicada a `webapp/`, `nginx`, `prometheus`/`grafana` e ao servidor de inferência `llama.cpp` (`COMPOSE_PROFILES=llm`, `LLAMA_THREADS=2`). Assim, adotamos o **`Qwen 1.7B Q4_K_M`** (`2.015,0 MiB` de RAM base, **`93,3%` de acerto estrito** sem degradação em 4 bits) como modelo oficial de produção, mantendo o `Qwen 0.6B Q4_K_M` (`896,8 MiB`) como alternativa ultraleve e *fallback* determinístico pelo motor RAG caso o serviço LLM esteja desabilitado.
+Como o modelo de Visão Computacional (`segformer_v3_int8_dyn_matmul.onnx`, `51,8 MiB`) foi descarregado para execução sob demanda no navegador via `onnxruntime-web`, a instância em nuvem (`Google Cloud Compute Engine e2-medium` com `4 GB` de RAM) fica dedicada a `webapp/`, `nginx`, `prometheus`/`grafana` e ao servidor de inferência `llama.cpp` (`COMPOSE_PROFILES=llm`, `LLAMA_THREADS=2`). Assim, adotamos o **`Qwen 1.7B Q4_K_M`** (`2.015,0 MiB` de RAM base, **`93,3%` de acerto estrito**, sem diferença mensurável em `n = 30` — `28/30` nas duas precisões) como modelo oficial de produção, mantendo o `Qwen 0.6B Q4_K_M` (`896,8 MiB`) como alternativa ultraleve e *fallback* determinístico pelo motor RAG caso o serviço LLM esteja desabilitado.

diff --git a/data-processing/README.md b/data-processing/README.md
@@ -40,6 +40,8 @@ Consultáveis via `GET /api/v1/inspections/available-dates`:
 - `2026-11-12` — Vila Mariana
 - `2026-11-13` — Avenida Paulista (Controle Negativo - rede subterrânea)
 
+> `captured_at` é uma partição operacional **sintética** (gerada de forma determinística por região) para simular coletas diárias incrementais; a data real da imagem está em `streetview_capture_month`.
+
 **Campos garantidos por item (`items[]`):**
 - `detection_id`: identificador único e determinístico (`arb-<sha256_16>`)
 - `image_id`: identificador base da fotografia
